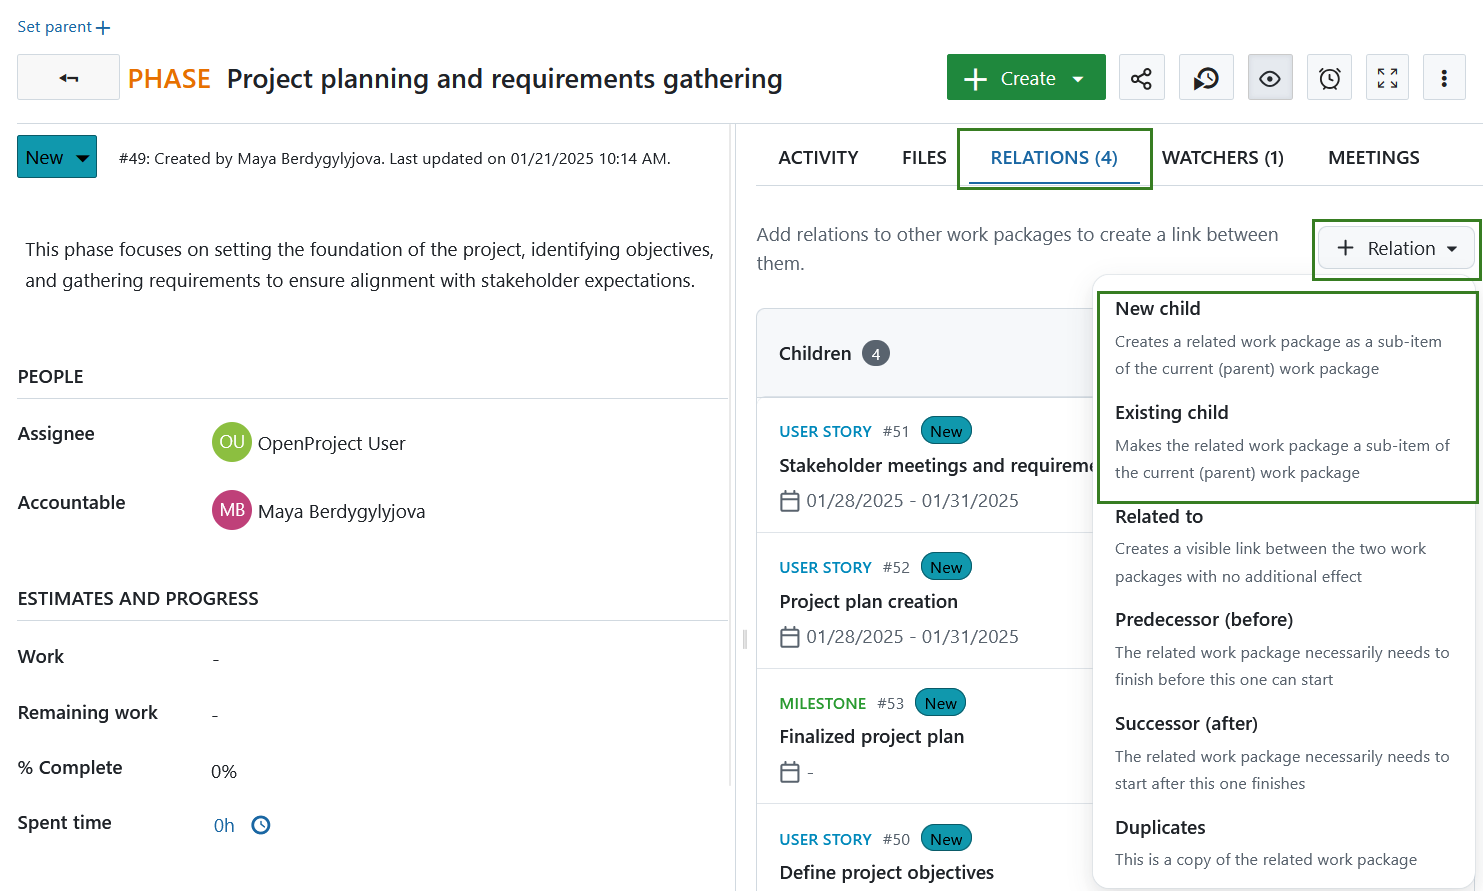
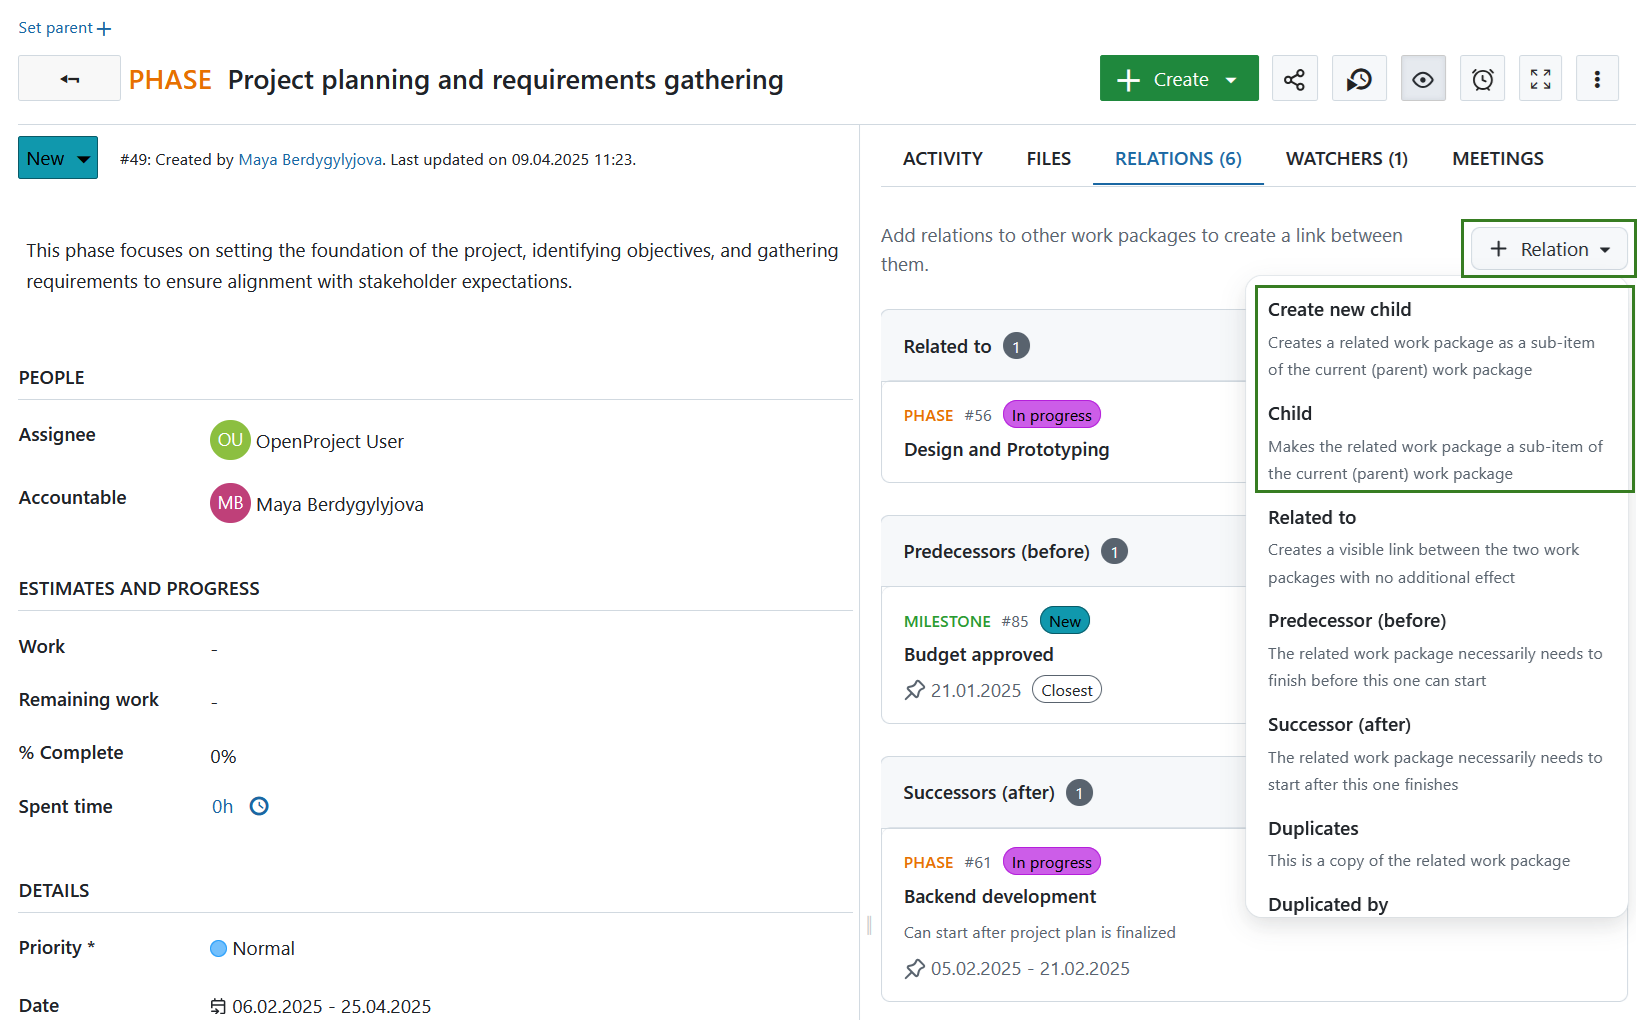
[#62761] 15.5 relations changes  https://community.openproject.org/work_packages/62761
[#62761] 15.5 relations changes

https://community.openproject.org/work_packages/62761

diff --git a/docs/user-guide/work-packages/work-package-relations-hierarchies/README.md b/docs/user-guide/work-packages/work-package-relations-hierarchies/README.md
@@ -31,7 +31,7 @@ Work package relations indicate that work packages address a similar topic or cr
 4. Enter a description of the relation. It will be visible for both of the related work packages.
 5. Press the Enter key and click the **Save** button.
 
-![autocompletion](openproject_user_guide_wp_add_relations_button.png)
+!["Add relations" button under Relations tab in an OpenProject work package](openproject_user_guide_wp_add_relations_button.png)
 
 ![Add a related work package in OpenProject](openproject_user_guide_wp_add_relations_form.png)
 
@@ -67,7 +67,7 @@ For the relations of type Predecessor/Successor, you can also define **Lag**, wh
 > [!TIP]
 > The selected relation status will be automatically displayed in the work package that you enter. For example if you select "Blocks" in the current work package A and specify work package B, work package B will automatically show that it is "Blocked by" A.
 
-
+After adding related work packages, they are listed in the Relations tab. Related work packages are grouped by the type of relation into corresponding sections. The order of the sections matches the order of relation types in the drop-down menu of the +Relation button (i.e., relates to, predecessors, successors, etc.). The Children section is listed last. Within each section, the related work packages are ordered chronologically, based on when the relations were added.
 
 ### Moving related work packages
 
@@ -173,3 +173,5 @@ You can also add a column with information about parent work packages:
 3. Now the column with the information about a parent relation is displayed in the work package table.
 
 ![Select parent as column in OpenProject work package tables](openproject_user_guide_wp_table_show_parent.png)
+
+*Parent* column displays all direct children work packages. If you want to include all deeper hierarchy levels, i.e. include grandchildren and so on, use the **Descendants of** filter. Learn more about [filtering for descendants](../work-package-table-configuration/#filter-for-descendats-of-a-work-package).
